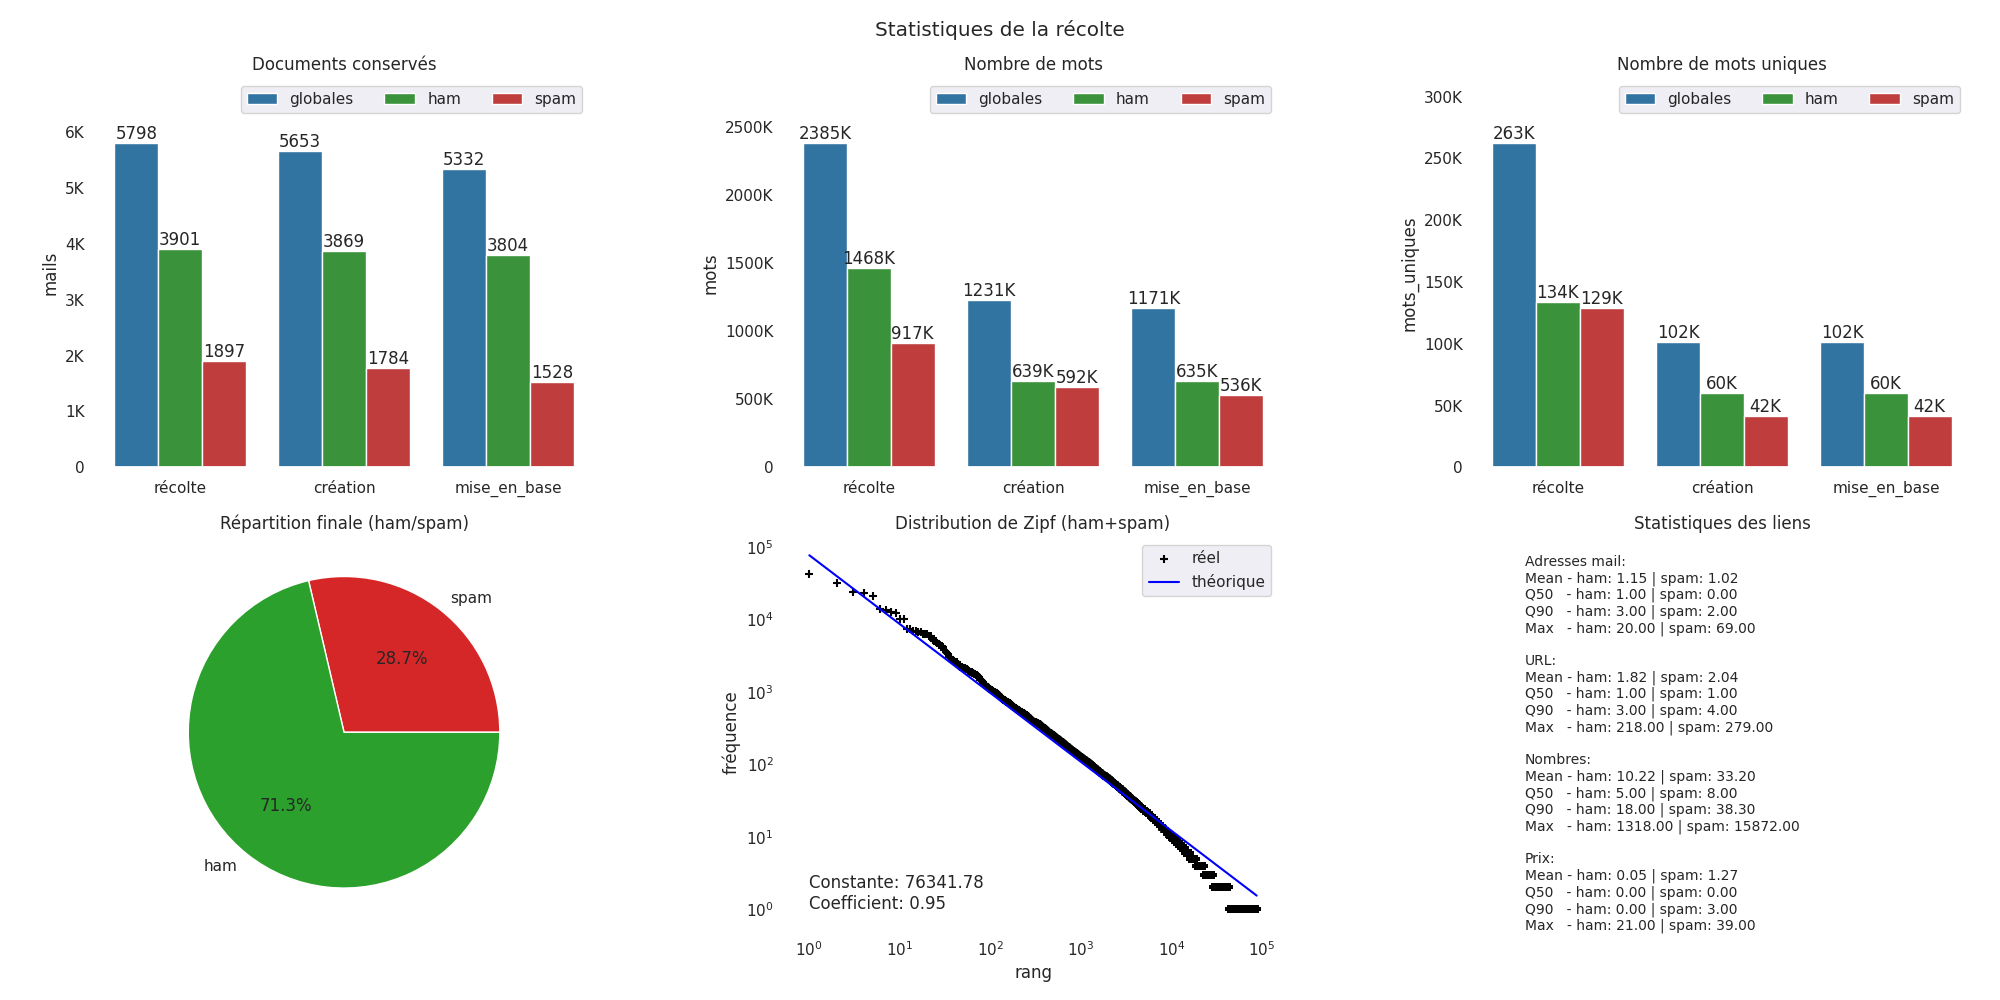
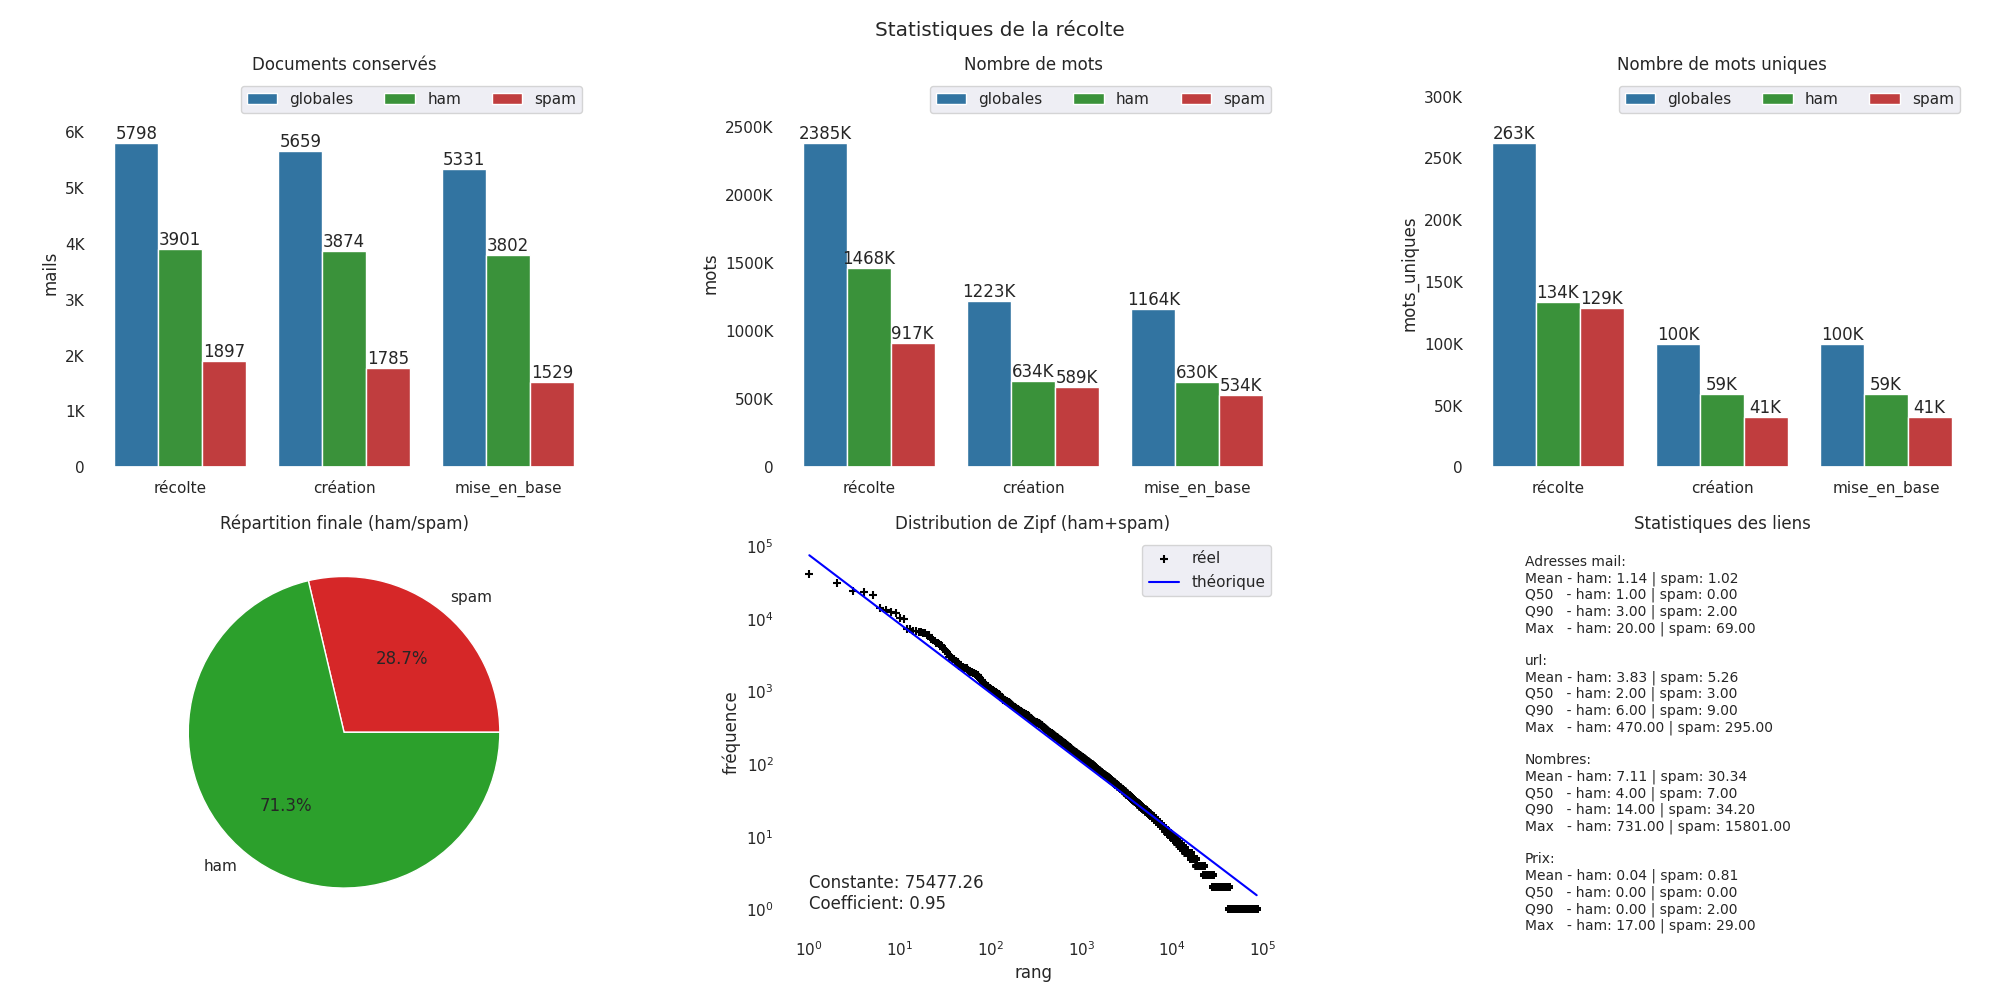
fouille end

diff --git a/src/stages/fouille.py b/src/stages/fouille.py
@@ -161,6 +161,12 @@ def mise_en_base(result, conf):
     db = cli_mongo[conf.infra['mongo']['db']]
     collection = db[conf.infra['mongo']['collection']]
 
+    cli_psql = cmd_psql.connect_db(user=conf.infra['psql']['user'],
+                                   passwd=conf.infra['psql']['pass'],
+                                   host=conf.infra['psql']['host'],
+                                   port=conf.infra['psql']['port'],
+                                   dbname=conf.infra['psql']['db'])
+
     for chunk in tqdm.tqdm(chunked,
                            desc="Mise en base des documents",
                            leave=False,
@@ -177,10 +183,12 @@ def mise_en_base(result, conf):
             psql_chunk.append(p_entry)
 
         inserted = cmd_mongo.insert_documents(mongo_chunk, collection)
-        psql_chunk = [doc for doc in psql_chunk if doc['hash'] in inserted]
 
+        psql_chunk = {doc['hash']: doc for doc in psql_chunk if doc['hash'] in inserted}
+        psql_insert(psql_chunk, cli_psql)
 
     cli_mongo.close()
+    cli_psql.close()
 
 
 def get_stats(conf):
@@ -235,7 +243,7 @@ def zipf_stats(conf):
     return zipf_data
 
 
-def link_stats(conf):
+def link_stats_old(conf):
     """
     Génère les statistiques des liens.
     :param conf: <Settings>
@@ -258,3 +266,91 @@ def link_stats(conf):
     client.close()
 
     return link_data
+
+
+def link_stats(conf):
+    """
+    Génère les statistiques des liens.
+    :param conf: <Settings>
+    :return: <Dataframe>
+    """
+    client = cmd_psql.create_engine(user=conf.infra['psql']['user'],
+                                    passwd=conf.infra['psql']['pass'],
+                                    host=conf.infra['psql']['host'],
+                                    port=conf.infra['psql']['port'],
+                                    dbname=conf.infra['psql']['db'])
+
+    query = '''SELECT
+        c.nom, l.url, l.mail, l.tel, l.nombre, l.prix
+        FROM liens l 
+        JOIN messages m ON l.id_message = m.id_message
+        JOIN categories c ON m.id_categorie = c.id_categorie;
+        '''
+
+    link_data = pd.read_sql_query(query, client)
+    link_data.columns = ['categorie', 'url', 'mail', 'tel', 'nombre', 'prix']
+    client.dispose()
+    link_data = link_data.pivot_table(
+        index='categorie',
+        values=['url', 'mail', 'tel', 'nombre', 'prix'],
+        aggfunc=['mean', graph.q50, graph.q90, 'max']
+    )
+
+    logger.info("Statistiques des liens\n%s", link_data)
+    return link_data
+
+
+liens_fields = ['url', 'mail', 'tel', 'nombre', 'prix']
+
+
+def psql_insert(psql_chunk, client):
+    """
+    Insertion des documents des de la fouille dans les tables PSQL
+    :param psql_chunk: <dict>
+    :param client: <psycopg2.connection>
+    :return: <None>
+    """
+    if not psql_chunk:
+        logger.debug("Aucunes données disponibles suite à l'insertion dans Mongo")
+        return
+
+    table = 'categories'
+    exists_cat = {line['nom']: line['id_categorie']
+                  for line in cmd_psql.get_data(client, table, ['nom', 'id_categorie'])}
+    doc_cat = set(doc['categorie'] for doc in psql_chunk.values())
+    to_insert = [cat for cat in doc_cat if cat not in exists_cat]
+
+    if to_insert:
+        cmd_psql.insert_data_many(client, table, [{'nom': cat} for cat in to_insert])
+        exists_cat = {line['nom']: line['id_categorie']
+                      for line in cmd_psql.get_data(client, table, ['nom', 'id_categorie'])}
+        logger.info('Catégories insérées dans la table %s - %s', table, to_insert)
+
+    hashes = [f"'{key}'" for key in psql_chunk.keys()]
+    clause = f"hash in ({','.join(hashes)})"
+
+    table = "messages"
+    exists = [line['hash'] for line in cmd_psql.get_data(client, table, ['hash'], clause)]
+    to_insert = [{'hash': hash_mess, 'id_categorie': exists_cat.get(doc['categorie'])}
+                 for hash_mess, doc in psql_chunk.items() if hash_mess not in exists]
+    if to_insert:
+        logger.info("Documents a insérés dans la table %s - %s", table, len(to_insert))
+        cmd_psql.insert_data_many(client, table, to_insert)
+    exists_mess = {line['hash']: line['id_message']
+                   for line in cmd_psql.get_data(client, table, ['hash', 'id_message'], clause)}
+
+    table = "liens"
+    exists = set(line['id_message'] for
+                 line in cmd_psql.get_data(client, table, ['id_message']))
+    to_insert = []
+    for hash_mess, document in psql_chunk.items():
+        if hash_mess in exists:
+            continue
+        tmp_doc = {key.lower(): value for key, value in document.items()
+                   if key.lower() in liens_fields}
+        tmp_doc['id_message'] = exists_mess[hash_mess]
+        to_insert.append(tmp_doc)
+
+    if to_insert:
+        logger.info("Documents a insérés dans la table %s - %s", table, len(to_insert))
+        cmd_psql.insert_data_many(client, table, to_insert)

diff --git a/src/modules/graph.py b/src/modules/graph.py
@@ -112,59 +112,59 @@ def fouille_dash(stats_df, zipf_data, link_df):
     axes[row, index].get_yaxis().set_visible(False)
     text = (f"Adresses mail:\n"
             f"Mean - "
-            f"ham: {link_df['mean', 'ham']['MAIL']:.2f} | "
-            f"spam: {link_df['mean', 'spam']['MAIL']:.2f}\n"
+            f"ham: {link_df['mean', 'mail']['ham']:.2f} | "
+            f"spam: {link_df['mean', 'mail']['spam']:.2f}\n"
             f"Q50   - "
-            f"ham: {link_df['q50', 'ham']['MAIL']:.2f} | "
-            f"spam: {link_df['q50', 'spam']['MAIL']:.2f}\n"
+            f"ham: {link_df['q50', 'mail']['ham']:.2f} | "
+            f"spam: {link_df['q50', 'mail']['spam']:.2f}\n"
             f"Q90   - "
-            f"ham: {link_df['q90', 'ham']['MAIL']:.2f} | "
-            f"spam: {link_df['q90', 'spam']['MAIL']:.2f}\n"
+            f"ham: {link_df['q90', 'mail']['ham']:.2f} | "
+            f"spam: {link_df['q90', 'mail']['spam']:.2f}\n"
             f"Max   - "
-            f"ham: {link_df['max', 'ham']['MAIL']:.2f} | "
-            f"spam: {link_df['max', 'spam']['MAIL']:.2f}\n"
+            f"ham: {link_df['max', 'mail']['ham']:.2f} | "
+            f"spam: {link_df['max', 'mail']['spam']:.2f}\n"
             f"\n"
-            f"URL:\n"
+            f"url:\n"
             f"Mean - "
-            f"ham: {link_df['mean', 'ham']['URL']:.2f} | "
-            f"spam: {link_df['mean', 'spam']['URL']:.2f}\n"
+            f"ham: {link_df['mean', 'url']['ham']:.2f} | "
+            f"spam: {link_df['mean', 'url']['spam']:.2f}\n"
             f"Q50   - "
-            f"ham: {link_df['q50', 'ham']['URL']:.2f} | "
-            f"spam: {link_df['q50', 'spam']['URL']:.2f}\n"
+            f"ham: {link_df['q50', 'url']['ham']:.2f} | "
+            f"spam: {link_df['q50', 'url']['spam']:.2f}\n"
             f"Q90   - "
-            f"ham: {link_df['q90', 'ham']['URL']:.2f} | "
-            f"spam: {link_df['q90', 'spam']['URL']:.2f}\n"
+            f"ham: {link_df['q90', 'url']['ham']:.2f} | "
+            f"spam: {link_df['q90', 'url']['spam']:.2f}\n"
             f"Max   - "
-            f"ham: {link_df['max', 'ham']['URL']:.2f} | "
-            f"spam: {link_df['max', 'spam']['URL']:.2f}\n"
+            f"ham: {link_df['max', 'url']['ham']:.2f} | "
+            f"spam: {link_df['max', 'url']['spam']:.2f}\n"
             f"\n"
             f"Nombres:\n"
             f"Mean - "
-            f"ham: {link_df['mean', 'ham']['NOMBRE']:.2f} | "
-            f"spam: {link_df['mean', 'spam']['NOMBRE']:.2f}\n"
+            f"ham: {link_df['mean', 'nombre']['ham']:.2f} | "
+            f"spam: {link_df['mean', 'nombre']['spam']:.2f}\n"
             f"Q50   - "
-            f"ham: {link_df['q50', 'ham']['NOMBRE']:.2f} | "
-            f"spam: {link_df['q50', 'spam']['NOMBRE']:.2f}\n"
+            f"ham: {link_df['q50', 'nombre']['ham']:.2f} | "
+            f"spam: {link_df['q50', 'nombre']['spam']:.2f}\n"
             f"Q90   - "
-            f"ham: {link_df['q90', 'ham']['NOMBRE']:.2f} | "
-            f"spam: {link_df['q90', 'spam']['NOMBRE']:.2f}\n"
+            f"ham: {link_df['q90', 'nombre']['ham']:.2f} | "
+            f"spam: {link_df['q90', 'nombre']['spam']:.2f}\n"
             f"Max   - "
-            f"ham: {link_df['max', 'ham']['NOMBRE']:.2f} | "
-            f"spam: {link_df['max', 'spam']['NOMBRE']:.2f}\n"
+            f"ham: {link_df['max', 'nombre']['ham']:.2f} | "
+            f"spam: {link_df['max', 'nombre']['spam']:.2f}\n"
             f"\n"
             f"Prix:\n"
             f"Mean - "
-            f"ham: {link_df['mean', 'ham']['PRIX']:.2f} | "
-            f"spam: {link_df['mean', 'spam']['PRIX']:.2f}\n"
+            f"ham: {link_df['mean', 'prix']['ham']:.2f} | "
+            f"spam: {link_df['mean', 'prix']['spam']:.2f}\n"
             f"Q50   - "
-            f"ham: {link_df['q50', 'ham']['PRIX']:.2f} | "
-            f"spam: {link_df['q50', 'spam']['PRIX']:.2f}\n"
+            f"ham: {link_df['q50', 'prix']['ham']:.2f} | "
+            f"spam: {link_df['q50', 'prix']['spam']:.2f}\n"
             f"Q90   - "
-            f"ham: {link_df['q90', 'ham']['PRIX']:.2f} | "
-            f"spam: {link_df['q90', 'spam']['PRIX']:.2f}\n"
+            f"ham: {link_df['q90', 'prix']['ham']:.2f} | "
+            f"spam: {link_df['q90', 'prix']['spam']:.2f}\n"
             f"Max   - "
-            f"ham: {link_df['max', 'ham']['PRIX']:.2f} | "
-            f"spam: {link_df['max', 'spam']['PRIX']:.2f}\n"
+            f"ham: {link_df['max', 'prix']['ham']:.2f} | "
+            f"spam: {link_df['max', 'prix']['spam']:.2f}\n"
             )
     axes[row, index].text(0.1, -0.05, text, fontsize='small')
     plt.savefig(f'./rapport/img/{fig.figname}.png')

diff --git a/src/modules/cmd_psql.py b/src/modules/cmd_psql.py
@@ -6,8 +6,25 @@ Module de liaison avec une base postgresSQL
 
 import logging
 import psycopg2
+import sqlalchemy
 
 logger = logging.getLogger(__name__)
+
+
+def create_engine(user, passwd, host, port, dbname):
+    """
+    Connexion a la base de donnees Postgres pour pandas
+    Penser à fermer la connexion
+    :param user: <str> utilisateur autoriser à pusher les données
+    :param passwd: <str> mot de passe
+    :param host: <str> localisation réseau de la bdd
+    :param port: <str> port de connexion
+    :param dbname: <str> nom de la base de donnees
+    :return: <psycopg2.extension.connection> objet connexion à la bdd
+    """
+    uri = f"postgresql://{user}:{passwd}@{host}:{port}/{dbname}"
+    engine = sqlalchemy.create_engine(uri)
+    return engine
 
 
 def connect_db(user, passwd, host, port, dbname=""):
@@ -80,19 +97,48 @@ def create_index(client_psql, nom, table, colonne):
     exec_query(client_psql, query)
 
 
-def insert_data(client_psql, table, data):
+def insert_data_one(client_psql, table, data):
     """
     Insérer les données d'un dictionnaire dans une table de la base de donnees PSQL
     Les clés du dictionnaire doivent correspondre aux colonnes de la table.
     :param client_psql: <psycopg2.extension.connection> object connexion vers une base de donnee
     :param table: <str> La table dans à remplir
-    :param data: <dict> {colonne: valeur}
+    :param data: <dict> {colonne : valeur}
     :return: None
     """
     cols = ','.join([str(c) for c in data.keys()])
     vals = ','.join([str(v) if not isinstance(v, str) else f"'{v}'" for v in data.values()])
     query = f"INSERT INTO {table}({cols}) VALUES ({vals})"
 
+    exec_query(client_psql, query)
+
+
+def insert_data_many(client_psql, table, data):
+    """
+    Insérer les données sur plusieurs lignes
+    :param client_psql: <psycopg2.extension.connection> object connexion vers une base de donnee
+    :param table: <str> La table dans à remplir
+    :param data: <list> [{col1 : val1, col2 : val2}, ...]
+    """
+    if len(data) == 1:
+        insert_data_one(client_psql, table, data[0])
+        return
+
+    data = [dict(sorted(line.items())) for line in data]
+    keys = data[0].keys()
+    for line in data[1:]:
+        if keys != line.keys():
+            logger.error("Impossible d'insérer les données dans la table %s les clés entre les"
+                         " lignes ne sont pas identiques", table)
+            return
+
+    lines_values = []
+    for line in data:
+        vals = ','.join([str(v) if not isinstance(v, str) else f"'{v}'" for v in line.values()])
+        vals = f"({vals})"
+        lines_values.append(vals)
+
+    query = f"INSERT INTO {table} ({','.join(list(keys))}) VALUES {', '.join(lines_values)}"
     exec_query(client_psql, query)
 
 

diff --git a/src/stages/develop.py b/src/stages/develop.py
@@ -3,10 +3,10 @@
 Fichier pour tester les développements en cours
 """
 import logging
-import multiprocessing
-import tqdm
-from src.stages import fouille
-from src.modules import importation
+import pandas as pd
+import sqlalchemy
+from src.modules import graph
+from src.modules import cmd_psql
 
 
 logger = logging.getLogger(__name__)
@@ -19,17 +19,27 @@ def main(conf):
     :return: None
     """
     logger.info("DEVELOPPEMENT")
-    # fouille.databases_init(conf)
 
-    ham_test = "./project_data/spamassassin/easy_ham"
-    files_stack = {'ham': importation.get_files(ham_test)}
-    pool_args = [(file, cat) for cat, f_list in files_stack.items() for file in list(f_list)]
-    with multiprocessing.Pool(conf.infra['cpu_available']) as pool:
-        result = list(tqdm.tqdm(pool.imap(fouille.fouille_doc, pool_args),
-                                desc="Création des documents",
-                                leave=False,
-                                disable=conf.args['progress_bar']))
-    result = [doc for doc in result if doc]
-    logger.info("Documents créés - %s", len(result))
+    psql_uri = (f"postgresql://{conf.infra['psql']['user']}:{conf.infra['psql']['pass']}@"
+                f"{conf.infra['psql']['host']}:{conf.infra['psql']['port']}/"
+                f"{conf.infra['psql']['db']}")
+    engine = sqlalchemy.create_engine(psql_uri)
 
-    fouille.mise_en_base(result, conf)
+    query = '''SELECT
+    c.nom, l.url, l.mail, l.tel, l.nombre, l.prix
+    FROM liens l 
+    JOIN messages m ON l.id_message = m.id_message
+    JOIN categories c ON m.id_categorie = c.id_categorie;
+    '''
+    colonnes = ['categorie', 'url', 'mail', 'tel', 'nombre', 'prix']
+    df = pd.read_sql_query(query, engine)
+    engine.dispose()
+    df.columns = colonnes
+    print(df[df['categorie']=='ham'].describe())
+    print(df[df['categorie']=='spam'].describe())
+    pivot = df.pivot_table(
+        index='categorie',
+        values=['url', 'mail', 'tel', 'nombre', 'prix'],
+        aggfunc=['mean', graph.q50, graph.q90,'max']
+    )
+    print(pivot)

diff --git a/src/modules/cmd_mongo.py b/src/modules/cmd_mongo.py
@@ -33,7 +33,7 @@ def insert_documents(documents, collection):
     doc_ids = set()
     for doc in documents:
         if doc['_id'] in doc_ids:
-            logger.info("Document dupliqué - %s", doc['_id'])
+            logger.info("Document dupliqué dans %s - %s", collection.name, doc['_id'])
             continue
         doc_ids.add(doc['_id'])
         final_list.append(doc)
@@ -55,6 +55,7 @@ def insert_documents(documents, collection):
     with pymongo.timeout(15):
         try:
             res = collection.insert_many(final_list)
+            res = res.inserted_ids
         except (pymongo.errors.BulkWriteError, bson.errors.InvalidDocument) as err:
             logger.error("Erreur d'insertion par groupe - %s", err)
             res = []
@@ -63,8 +64,8 @@ def insert_documents(documents, collection):
                 if ret:
                     res.append(ret)
 
-        logger.info("Documents insérés - %s", len(res.inserted_ids))
-        return res.inserted_ids
+        logger.info("Documents insérés dans %s - %s", collection.name, len(res))
+        return res
 
 
 def insert_document(document, collection):
@@ -77,13 +78,13 @@ def insert_document(document, collection):
         try:
             res = collection.insert_one(document)
         except pymongo.errors.DuplicateKeyError:
-            logger.debug("Document %s déjà présent", document['_id'])
+            logger.debug("Document déjà présent dans %s - %s", collection.name, document['_id'])
             return None
         except pymongo.errors.WriteError as err:
             logger.error(err)
             return None
 
-        logger.debug("Document %s inséré unitairement", res.inserted_id)
+        logger.debug("Document inséré unitairement dans %s - %s", collection.name, res.inserted_id)
         return res.inserted_id
 
 
